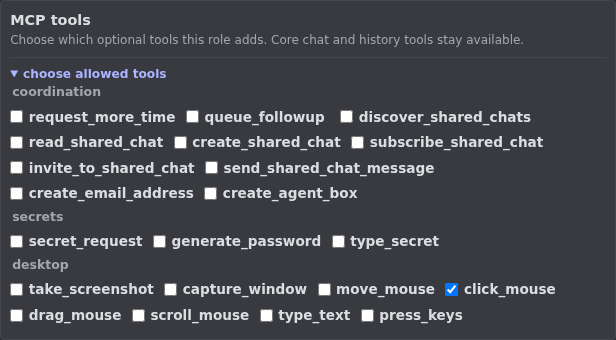
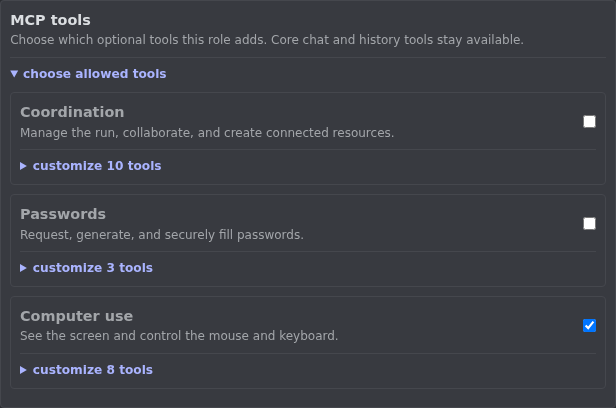
feat: add MCP tool category toggles

diff --git a/internal/controller/web/app.js b/internal/controller/web/app.js
@@ -221,15 +221,19 @@ function renderRoleMatrix(){const root=$('#role-matrix'),query=$('#role-box-sear
  const wrap=node('div');wrap.className='role-matrix-wrap';const table=node('table');table.className='role-matrix';const head=node('tr');const boxHead=node('th','Box');boxHead.className='sticky-box';head.append(boxHead);for(const role of agentRoles){const th=node('th'),edit=button(role.name,()=>openRoleEditor(role));edit.classList.add('role-heading');th.append(edit);head.append(th)}table.append(head);for(const box of boxes){const row=node('tr'),name=node('th',box.name);name.scope='row';name.className='sticky-box';row.append(name);for(const role of agentRoles){const cell=node('td');cell.append(roleCheckbox(box,role));row.append(cell)}table.append(row)}wrap.append(table);
  const mobile=node('div');mobile.className='role-mobile';const select=document.createElement('select');for(const box of boxes){const option=node('option',box.name);option.value=box.id;select.append(option)}const list=node('div');list.className='role-checklist';const draw=()=>{list.replaceChildren();const box=boxes.find(value=>value.id===select.value);if(!box)return;for(const role of agentRoles){const label=node('label'),input=roleCheckbox(box,role);label.append(input,document.createTextNode(role.name));list.append(label)}};select.addEventListener('change',draw);draw();mobile.append(select,list);root.append(wrap,mobile)}
 function renderRoles(roles,boxes,resetDraft=true){agentRoles=roles||[];roleBoxes=boxes||[];if(resetDraft||!roleAssignmentsDirty){roleAssignmentDraft=new Map(roleBoxes.map(box=>[box.id,(box.roles||[]).map(role=>role.id)]));setRoleAssignmentsDirty(false)}renderCreationRoles();renderRoleMatrix()}
-function openRoleEditor(role=null){const form=$('#role-editor-form'),cap=role?.capabilities||{};form.reset();form.elements.id.value=role?.id||'';form.elements.name.value=role?.name||'';form.elements.description.value=role?.description||'';form.elements.contactScope.value=role?.contactScope||'none';const set=(name,value)=>{if(value!==undefined&&value!==null)form.elements[name].value=String(value)},check=(name,value)=>form.elements[name].checked=!!value;check('requestMoreTimeEnabled',cap.requestMoreTime?.enabled);set('maxExtensionMinutes',cap.requestMoreTime?.maxExtensionMinutes);set('maxTotalMinutes',cap.requestMoreTime?.maxTotalMinutes);check('queueFollowupEnabled',cap.queueFollowup?.enabled);set('maxDelayMinutes',cap.queueFollowup?.maxDelayMinutes);set('maxPending',cap.queueFollowup?.maxPending);check('createAgentBoxEnabled',cap.createAgentBox?.enabled);set('maxBoxes',cap.createAgentBox?.maxBoxes);set('maxDiskGiB',cap.createAgentBox?.maxDiskGiB);const allowed=new Set(cap.createAgentBox?.allowedAgents||[]);form.querySelectorAll('input[name=allowedAgents]').forEach(input=>input.checked=allowed.has(input.value));check('createEmailAddressEnabled',cap.createEmailAddress?.enabled);set('maxAddresses',cap.createEmailAddress?.maxAddresses);set('emailDomains',(cap.createEmailAddress?.domains||[]).join(', '));set('emailAddressTypes',(cap.createEmailAddress?.addressTypes||[]).join(', '));check('sharedChatDiscover',cap.sharedChats?.discover);check('sharedChatRead',cap.sharedChats?.read);check('sharedChatSubscribe',cap.sharedChats?.subscribe);check('sharedChatCreate',cap.sharedChats?.create);check('sharedChatInvite',cap.sharedChats?.invite);check('sharedChatsEnabled',Object.values(cap.sharedChats||{}).some(Boolean));const mcpInputs=[...form.querySelectorAll('input[name=mcpTools]')],allowedMCP=new Set(cap.mcpTools?.enabled?(cap.mcpTools.allowedTools||[]):[]);mcpInputs.forEach(input=>input.checked=allowedMCP.has(input.value));$('#role-editor-title').textContent=role?'Edit role · '+role.name:'Create role';$('#delete-role').hidden=!role;$('#role-assigned-count').textContent=role?'Assigned to '+role.assignedBoxCount+' box'+(role.assignedBoxCount===1?'':'es')+'.':'Not assigned yet.';const selected=new Set(role?.contactBoxIds||[]),root=$('#role-contact-boxes');root.replaceChildren();for(const box of roleBoxes){const label=node('label'),input=document.createElement('input');input.type='checkbox';input.name='contactBoxIds';input.value=box.id;input.checked=selected.has(box.id);label.append(input,document.createTextNode(box.name));root.append(label)}root.hidden=form.elements.contactScope.value!=='selected';const assignable=new Set(cap.createAgentBox?.assignableRoleIds||[]),assignableRoot=$('#role-assignable-roles');assignableRoot.replaceChildren();for(const candidate of agentRoles){const label=node('label'),input=document.createElement('input');input.type='checkbox';input.name='assignableRoleIds';input.value=candidate.id;input.checked=assignable.has(candidate.id);label.append(input,document.createTextNode(candidate.name));assignableRoot.append(label)}form.querySelectorAll('.role-capability-options').forEach(details=>details.open=false);syncRoleCapabilities(form);$('#role-editor-status').textContent='';modalEl('role-editor-modal').hidden=false;form.elements.name.focus()}
+function openRoleEditor(role=null){const form=$('#role-editor-form'),cap=role?.capabilities||{};form.reset();form.elements.id.value=role?.id||'';form.elements.name.value=role?.name||'';form.elements.description.value=role?.description||'';form.elements.contactScope.value=role?.contactScope||'none';const set=(name,value)=>{if(value!==undefined&&value!==null)form.elements[name].value=String(value)},check=(name,value)=>form.elements[name].checked=!!value;check('requestMoreTimeEnabled',cap.requestMoreTime?.enabled);set('maxExtensionMinutes',cap.requestMoreTime?.maxExtensionMinutes);set('maxTotalMinutes',cap.requestMoreTime?.maxTotalMinutes);check('queueFollowupEnabled',cap.queueFollowup?.enabled);set('maxDelayMinutes',cap.queueFollowup?.maxDelayMinutes);set('maxPending',cap.queueFollowup?.maxPending);check('createAgentBoxEnabled',cap.createAgentBox?.enabled);set('maxBoxes',cap.createAgentBox?.maxBoxes);set('maxDiskGiB',cap.createAgentBox?.maxDiskGiB);const allowed=new Set(cap.createAgentBox?.allowedAgents||[]);form.querySelectorAll('input[name=allowedAgents]').forEach(input=>input.checked=allowed.has(input.value));check('createEmailAddressEnabled',cap.createEmailAddress?.enabled);set('maxAddresses',cap.createEmailAddress?.maxAddresses);set('emailDomains',(cap.createEmailAddress?.domains||[]).join(', '));set('emailAddressTypes',(cap.createEmailAddress?.addressTypes||[]).join(', '));check('sharedChatDiscover',cap.sharedChats?.discover);check('sharedChatRead',cap.sharedChats?.read);check('sharedChatSubscribe',cap.sharedChats?.subscribe);check('sharedChatCreate',cap.sharedChats?.create);check('sharedChatInvite',cap.sharedChats?.invite);check('sharedChatsEnabled',Object.values(cap.sharedChats||{}).some(Boolean));const mcpInputs=[...form.querySelectorAll('input[name=mcpTools]')],allowedMCP=new Set(cap.mcpTools?.enabled?(cap.mcpTools.allowedTools||[]):[]);mcpInputs.forEach(input=>input.checked=allowedMCP.has(input.value));$('#role-editor-title').textContent=role?'Edit role · '+role.name:'Create role';$('#delete-role').hidden=!role;$('#role-assigned-count').textContent=role?'Assigned to '+role.assignedBoxCount+' box'+(role.assignedBoxCount===1?'':'es')+'.':'Not assigned yet.';const selected=new Set(role?.contactBoxIds||[]),root=$('#role-contact-boxes');root.replaceChildren();for(const box of roleBoxes){const label=node('label'),input=document.createElement('input');input.type='checkbox';input.name='contactBoxIds';input.value=box.id;input.checked=selected.has(box.id);label.append(input,document.createTextNode(box.name));root.append(label)}root.hidden=form.elements.contactScope.value!=='selected';const assignable=new Set(cap.createAgentBox?.assignableRoleIds||[]),assignableRoot=$('#role-assignable-roles');assignableRoot.replaceChildren();for(const candidate of agentRoles){const label=node('label'),input=document.createElement('input');input.type='checkbox';input.name='assignableRoleIds';input.value=candidate.id;input.checked=assignable.has(candidate.id);label.append(input,document.createTextNode(candidate.name));assignableRoot.append(label)}form.querySelectorAll('.role-capability-options').forEach(details=>details.open=false);syncRoleCapabilities(form);syncMCPToolGroups(form);$('#role-editor-status').textContent='';modalEl('role-editor-modal').hidden=false;form.elements.name.focus()}
 function syncRoleCapabilities(form=$('#role-editor-form')){form.querySelectorAll('.role-capability-options[data-capability]').forEach(root=>root.hidden=!form.elements[root.dataset.capability].checked)}
 function changeRoleCapability(input){if(input.name==='sharedChatsEnabled'&&input.checked&&!['sharedChatDiscover','sharedChatRead','sharedChatSubscribe','sharedChatCreate','sharedChatInvite'].some(name=>input.form.elements[name].checked)){for(const name of ['sharedChatDiscover','sharedChatRead','sharedChatSubscribe','sharedChatCreate','sharedChatInvite'])input.form.elements[name].checked=true}syncRoleCapabilities(input.form)}
+function syncMCPToolGroups(form=$('#role-editor-form')){for(const group of form.querySelectorAll('.mcp-tool-group')){const tools=[...group.querySelectorAll('input[name=mcpTools]')],toggle=group.querySelector('.mcp-tool-group-toggle'),selected=tools.filter(input=>input.checked).length;toggle.checked=selected===tools.length;toggle.indeterminate=selected>0&&selected<tools.length}}
+function changeMCPToolGroup(toggle){for(const input of toggle.closest('.mcp-tool-group').querySelectorAll('input[name=mcpTools]'))input.checked=toggle.checked;syncMCPToolGroups(toggle.form)}
 $('#role-box-search').addEventListener('input',renderRoleMatrix);
 $('#create-role').addEventListener('click',()=>openRoleEditor());
 $('#discard-role-assignments').addEventListener('click',()=>renderRoles(agentRoles,roleBoxes,true));
 $('#save-role-assignments').addEventListener('click',action(async()=>{await api('/v1/agent-role-assignments','PUT',{assignments:roleBoxes.map(box=>({boxId:box.id,roleIds:roleAssignmentDraft.get(box.id)||[]}))});setRoleAssignmentsDirty(false);notice('Role assignments saved.');await refresh()}));
 document.querySelectorAll('#role-editor-form input[name=contactScope]').forEach(input=>input.addEventListener('change',()=>{$('#role-contact-boxes').hidden=input.form.elements.contactScope.value!=='selected'}));
 document.querySelectorAll('#role-editor-form .role-capability-toggle input[type=checkbox]').forEach(input=>input.addEventListener('change',()=>changeRoleCapability(input)));
+document.querySelectorAll('#role-editor-form .mcp-tool-group-toggle').forEach(input=>input.addEventListener('change',()=>changeMCPToolGroup(input)));
+document.querySelectorAll('#role-editor-form input[name=mcpTools]').forEach(input=>input.addEventListener('change',()=>syncMCPToolGroups(input.form)));
 $('#role-editor-form').addEventListener('submit',action(async e=>{const f=e.target.elements,id=f.id.value,csv=value=>value.split(',').map(item=>item.trim()).filter(Boolean),num=name=>Number.parseInt(f[name].value,10)||0,body={name:f.name.value.trim(),description:f.description.value.trim(),contactScope:f.contactScope.value,contactBoxIds:f.contactScope.value==='selected'?[...e.target.querySelectorAll('input[name=contactBoxIds]:checked')].map(input=>input.value):[],capabilities:{requestMoreTime:{enabled:f.requestMoreTimeEnabled.checked,maxExtensionMinutes:num('maxExtensionMinutes'),maxTotalMinutes:num('maxTotalMinutes')},queueFollowup:{enabled:f.queueFollowupEnabled.checked,maxDelayMinutes:num('maxDelayMinutes'),maxPending:num('maxPending')},createAgentBox:{enabled:f.createAgentBoxEnabled.checked,maxBoxes:num('maxBoxes'),maxDiskGiB:num('maxDiskGiB'),allowedAgents:[...e.target.querySelectorAll('input[name=allowedAgents]:checked')].map(input=>input.value),assignableRoleIds:[...e.target.querySelectorAll('input[name=assignableRoleIds]:checked')].map(input=>input.value)},createEmailAddress:{enabled:f.createEmailAddressEnabled.checked,maxAddresses:num('maxAddresses'),domains:csv(f.emailDomains.value),addressTypes:csv(f.emailAddressTypes.value)},sharedChats:{discover:f.sharedChatsEnabled.checked&&f.sharedChatDiscover.checked,read:f.sharedChatsEnabled.checked&&f.sharedChatRead.checked,subscribe:f.sharedChatsEnabled.checked&&f.sharedChatSubscribe.checked,create:f.sharedChatsEnabled.checked&&f.sharedChatCreate.checked,invite:f.sharedChatsEnabled.checked&&f.sharedChatInvite.checked},mcpTools:{enabled:true,allowedTools:[...e.target.querySelectorAll('input[name=mcpTools]:checked')].map(input=>input.value)}}};$('#role-editor-status').textContent='Saving…';await api('/v1/agent-roles'+(id?'/'+encodeURIComponent(id):''),id?'PUT':'POST',body);modalEl('role-editor-modal').hidden=true;notice(id?'Role updated.':'Role created.');await refresh()}));
 $('#delete-role').addEventListener('click',action(async()=>{const form=$('#role-editor-form'),id=form.elements.id.value,name=form.elements.name.value;if(!id||!confirm('Delete role "'+name+'"? Its assignments and grants will be removed. Other roles and manual contact allowances remain effective.'))return;await api('/v1/agent-roles/'+encodeURIComponent(id),'DELETE');modalEl('role-editor-modal').hidden=true;notice('Role deleted.');await refresh()}));
 function renderProfiles(identity,profiles){

diff --git a/internal/controller/web/index.html b/internal/controller/web/index.html
@@ -83,9 +83,9 @@
 <fieldset class="role-capability"><label class="role-capability-toggle"><span><strong>Email addresses</strong><small>Provision real addresses through the connected provider.</small></span><input type="checkbox" name="createEmailAddressEnabled" aria-label="Allow creating email addresses"></label><details class="role-capability-options" data-capability="createEmailAddressEnabled"><summary>advanced limits</summary><div class="role-capability-fields"><label>maximum addresses <input type="number" name="maxAddresses" min="1" max="100" value="3"></label><label>allowed domains <input name="emailDomains" placeholder="example.com"></label><label>allowed address types <input name="emailAddressTypes" value="alias" placeholder="alias, mailbox"></label></div></details></fieldset>
 <fieldset class="role-capability"><label class="role-capability-toggle"><span><strong>Shared chats</strong><small>Discover, read, follow, create, and invite.</small></span><input type="checkbox" name="sharedChatsEnabled" aria-label="Allow shared chats"></label><details class="role-capability-options" data-capability="sharedChatsEnabled"><summary>advanced permissions</summary><div class="role-shared"><label><input type="checkbox" name="sharedChatDiscover"> discover</label><label><input type="checkbox" name="sharedChatRead"> read</label><label><input type="checkbox" name="sharedChatSubscribe"> subscribe</label><label><input type="checkbox" name="sharedChatCreate"> create</label><label><input type="checkbox" name="sharedChatInvite"> invite</label></div></details></fieldset>
 <fieldset class="role-capability"><div class="role-capability-toggle"><span><strong>MCP tools</strong><small>Choose optional tools this role adds. Core chat and history tools stay available.</small></span></div><details class="role-capability-options mcp-tool-options"><summary>choose allowed tools</summary><div class="mcp-tool-groups">
-<fieldset class="role-inline"><legend>coordination</legend><label title="Extend this box's current run within its role limits."><input type="checkbox" name="mcpTools" value="request_more_time"> request_more_time</label><label title="Schedule a message for the current running task."><input type="checkbox" name="mcpTools" value="queue_followup"> queue_followup</label><label title="List shared chats this box is allowed to discover."><input type="checkbox" name="mcpTools" value="discover_shared_chats"> discover_shared_chats</label><label title="Read messages from a shared chat this box has joined."><input type="checkbox" name="mcpTools" value="read_shared_chat"> read_shared_chat</label><label title="Create and join a new shared chat."><input type="checkbox" name="mcpTools" value="create_shared_chat"> create_shared_chat</label><label title="Choose which shared-chat messages are delivered automatically."><input type="checkbox" name="mcpTools" value="subscribe_shared_chat"> subscribe_shared_chat</label><label title="Invite another permitted box to a shared chat."><input type="checkbox" name="mcpTools" value="invite_to_shared_chat"> invite_to_shared_chat</label><label title="Post a message or reply to a joined shared chat."><input type="checkbox" name="mcpTools" value="send_shared_chat_message"> send_shared_chat_message</label><label title="Provision an email address through the configured provider."><input type="checkbox" name="mcpTools" value="create_email_address"> create_email_address</label><label title="Create another agent box within this role's limits."><input type="checkbox" name="mcpTools" value="create_agent_box"> create_agent_box</label></fieldset>
-<fieldset class="role-inline"><legend>secrets</legend><label title="Ask you privately for an existing account password; the agent never sees it."><input type="checkbox" name="mcpTools" value="secret_request"> secret_request</label><label title="Generate and securely store a password for a new account."><input type="checkbox" name="mcpTools" value="generate_password"> generate_password</label><label title="Fill the focused HTTPS password field without revealing the password."><input type="checkbox" name="mcpTools" value="type_secret"> type_secret</label></fieldset>
-<fieldset class="role-inline"><legend>desktop</legend><label title="Capture the full desktop as an image."><input type="checkbox" name="mcpTools" value="take_screenshot"> take_screenshot</label><label title="Capture one visible window as an image."><input type="checkbox" name="mcpTools" value="capture_window"> capture_window</label><label title="Move the mouse pointer to screen coordinates."><input type="checkbox" name="mcpTools" value="move_mouse"> move_mouse</label><label title="Click or double-click at screen coordinates."><input type="checkbox" name="mcpTools" value="click_mouse"> click_mouse</label><label title="Drag the mouse between two screen coordinates."><input type="checkbox" name="mcpTools" value="drag_mouse"> drag_mouse</label><label title="Scroll vertically or horizontally at screen coordinates."><input type="checkbox" name="mcpTools" value="scroll_mouse"> scroll_mouse</label><label title="Type ordinary non-secret text into the focused application."><input type="checkbox" name="mcpTools" value="type_text"> type_text</label><label title="Press a key or keyboard shortcut in the focused application."><input type="checkbox" name="mcpTools" value="press_keys"> press_keys</label></fieldset>
+<fieldset class="role-capability mcp-tool-group"><label class="role-capability-toggle" title="Allow or deny every coordination tool in this group."><span><strong>Coordination</strong><small>Manage the run, collaborate, and create connected resources.</small></span><input type="checkbox" class="mcp-tool-group-toggle" value="coordination" aria-label="Allow all coordination tools"></label><details class="role-capability-options"><summary>customize 10 tools</summary><div class="role-inline"><label title="Extend this box's current run within its role limits."><input type="checkbox" name="mcpTools" value="request_more_time"> request_more_time</label><label title="Schedule a message for the current running task."><input type="checkbox" name="mcpTools" value="queue_followup"> queue_followup</label><label title="List shared chats this box is allowed to discover."><input type="checkbox" name="mcpTools" value="discover_shared_chats"> discover_shared_chats</label><label title="Read messages from a shared chat this box has joined."><input type="checkbox" name="mcpTools" value="read_shared_chat"> read_shared_chat</label><label title="Create and join a new shared chat."><input type="checkbox" name="mcpTools" value="create_shared_chat"> create_shared_chat</label><label title="Choose which shared-chat messages are delivered automatically."><input type="checkbox" name="mcpTools" value="subscribe_shared_chat"> subscribe_shared_chat</label><label title="Invite another permitted box to a shared chat."><input type="checkbox" name="mcpTools" value="invite_to_shared_chat"> invite_to_shared_chat</label><label title="Post a message or reply to a joined shared chat."><input type="checkbox" name="mcpTools" value="send_shared_chat_message"> send_shared_chat_message</label><label title="Provision an email address through the configured provider."><input type="checkbox" name="mcpTools" value="create_email_address"> create_email_address</label><label title="Create another agent box within this role's limits."><input type="checkbox" name="mcpTools" value="create_agent_box"> create_agent_box</label></div></details></fieldset>
+<fieldset class="role-capability mcp-tool-group"><label class="role-capability-toggle" title="Allow or deny every password tool in this group."><span><strong>Passwords</strong><small>Request, generate, and securely fill passwords.</small></span><input type="checkbox" class="mcp-tool-group-toggle" value="passwords" aria-label="Allow all password tools"></label><details class="role-capability-options"><summary>customize 3 tools</summary><div class="role-inline"><label title="Ask you privately for an existing account password; the agent never sees it."><input type="checkbox" name="mcpTools" value="secret_request"> secret_request</label><label title="Generate and securely store a password for a new account."><input type="checkbox" name="mcpTools" value="generate_password"> generate_password</label><label title="Fill the focused HTTPS password field without revealing the password."><input type="checkbox" name="mcpTools" value="type_secret"> type_secret</label></div></details></fieldset>
+<fieldset class="role-capability mcp-tool-group"><label class="role-capability-toggle" title="Allow or deny every tool that can inspect or control the box's computer."><span><strong>Computer use</strong><small>See the screen and control the mouse and keyboard.</small></span><input type="checkbox" class="mcp-tool-group-toggle" value="computer_use" aria-label="Allow all computer-use tools"></label><details class="role-capability-options"><summary>customize 8 tools</summary><div class="role-inline"><label title="Capture the full desktop as an image."><input type="checkbox" name="mcpTools" value="take_screenshot"> take_screenshot</label><label title="Capture one visible window as an image."><input type="checkbox" name="mcpTools" value="capture_window"> capture_window</label><label title="Move the mouse pointer to screen coordinates."><input type="checkbox" name="mcpTools" value="move_mouse"> move_mouse</label><label title="Click or double-click at screen coordinates."><input type="checkbox" name="mcpTools" value="click_mouse"> click_mouse</label><label title="Drag the mouse between two screen coordinates."><input type="checkbox" name="mcpTools" value="drag_mouse"> drag_mouse</label><label title="Scroll vertically or horizontally at screen coordinates."><input type="checkbox" name="mcpTools" value="scroll_mouse"> scroll_mouse</label><label title="Type ordinary non-secret text into the focused application."><input type="checkbox" name="mcpTools" value="type_text"> type_text</label><label title="Press a key or keyboard shortcut in the focused application."><input type="checkbox" name="mcpTools" value="press_keys"> press_keys</label></div></details></fieldset>
 </div></details></fieldset>
 </section>
 <div class="form-actions"><button class="primary">save role</button><button type="button" class="linkbtn danger" id="delete-role" hidden>delete role</button></div><p id="role-editor-status" role="status"></p></form>

diff --git a/internal/controller/web/chat.html b/internal/controller/web/chat.html
@@ -308,15 +308,13 @@
     <fieldset class="role-capability">
      <div class="role-capability-toggle"><span><strong>MCP tools</strong><small>Choose which optional tools this role adds. Core chat and history tools stay available.</small></span></div>
      <details class="role-capability-options mcp-tool-options"><summary>Choose allowed tools</summary><div class="mcp-tool-groups">
-      <fieldset class="role-inline-checks"><legend>Coordination</legend>
-       <label title="Extend this box's current run within its role limits."><input type="checkbox" name="mcpTools" value="request_more_time"> request_more_time</label><label title="Schedule a message for the current running task."><input type="checkbox" name="mcpTools" value="queue_followup"> queue_followup</label>
-       <label title="List shared chats this box is allowed to discover."><input type="checkbox" name="mcpTools" value="discover_shared_chats"> discover_shared_chats</label><label title="Read messages from a shared chat this box has joined."><input type="checkbox" name="mcpTools" value="read_shared_chat"> read_shared_chat</label><label title="Create and join a new shared chat."><input type="checkbox" name="mcpTools" value="create_shared_chat"> create_shared_chat</label><label title="Choose which shared-chat messages are delivered automatically."><input type="checkbox" name="mcpTools" value="subscribe_shared_chat"> subscribe_shared_chat</label><label title="Invite another permitted box to a shared chat."><input type="checkbox" name="mcpTools" value="invite_to_shared_chat"> invite_to_shared_chat</label><label title="Post a message or reply to a joined shared chat."><input type="checkbox" name="mcpTools" value="send_shared_chat_message"> send_shared_chat_message</label>
-       <label title="Provision an email address through the configured provider."><input type="checkbox" name="mcpTools" value="create_email_address"> create_email_address</label><label title="Create another agent box within this role's limits."><input type="checkbox" name="mcpTools" value="create_agent_box"> create_agent_box</label>
-      </fieldset><fieldset class="role-inline-checks"><legend>Secrets</legend>
+      <fieldset class="role-capability mcp-tool-group"><label class="role-capability-toggle" title="Allow or deny every coordination tool in this group."><span><strong>Coordination</strong><small>Manage the run, collaborate, and create connected resources.</small></span><input type="checkbox" class="mcp-tool-group-toggle" value="coordination" aria-label="Allow all coordination tools"></label><details class="role-capability-options"><summary>Customize 10 tools</summary><div class="role-inline-checks">
+       <label title="Extend this box's current run within its role limits."><input type="checkbox" name="mcpTools" value="request_more_time"> request_more_time</label><label title="Schedule a message for the current running task."><input type="checkbox" name="mcpTools" value="queue_followup"> queue_followup</label><label title="List shared chats this box is allowed to discover."><input type="checkbox" name="mcpTools" value="discover_shared_chats"> discover_shared_chats</label><label title="Read messages from a shared chat this box has joined."><input type="checkbox" name="mcpTools" value="read_shared_chat"> read_shared_chat</label><label title="Create and join a new shared chat."><input type="checkbox" name="mcpTools" value="create_shared_chat"> create_shared_chat</label><label title="Choose which shared-chat messages are delivered automatically."><input type="checkbox" name="mcpTools" value="subscribe_shared_chat"> subscribe_shared_chat</label><label title="Invite another permitted box to a shared chat."><input type="checkbox" name="mcpTools" value="invite_to_shared_chat"> invite_to_shared_chat</label><label title="Post a message or reply to a joined shared chat."><input type="checkbox" name="mcpTools" value="send_shared_chat_message"> send_shared_chat_message</label><label title="Provision an email address through the configured provider."><input type="checkbox" name="mcpTools" value="create_email_address"> create_email_address</label><label title="Create another agent box within this role's limits."><input type="checkbox" name="mcpTools" value="create_agent_box"> create_agent_box</label>
+      </div></details></fieldset><fieldset class="role-capability mcp-tool-group"><label class="role-capability-toggle" title="Allow or deny every password tool in this group."><span><strong>Passwords</strong><small>Request, generate, and securely fill passwords.</small></span><input type="checkbox" class="mcp-tool-group-toggle" value="passwords" aria-label="Allow all password tools"></label><details class="role-capability-options"><summary>Customize 3 tools</summary><div class="role-inline-checks">
        <label title="Ask you privately for an existing account password; the agent never sees it."><input type="checkbox" name="mcpTools" value="secret_request"> secret_request</label><label title="Generate and securely store a password for a new account."><input type="checkbox" name="mcpTools" value="generate_password"> generate_password</label><label title="Fill the focused HTTPS password field without revealing the password."><input type="checkbox" name="mcpTools" value="type_secret"> type_secret</label>
-      </fieldset><fieldset class="role-inline-checks"><legend>Desktop</legend>
+      </div></details></fieldset><fieldset class="role-capability mcp-tool-group"><label class="role-capability-toggle" title="Allow or deny every tool that can inspect or control the box's computer."><span><strong>Computer use</strong><small>See the screen and control the mouse and keyboard.</small></span><input type="checkbox" class="mcp-tool-group-toggle" value="computer_use" aria-label="Allow all computer-use tools"></label><details class="role-capability-options"><summary>Customize 8 tools</summary><div class="role-inline-checks">
        <label title="Capture the full desktop as an image."><input type="checkbox" name="mcpTools" value="take_screenshot"> take_screenshot</label><label title="Capture one visible window as an image."><input type="checkbox" name="mcpTools" value="capture_window"> capture_window</label><label title="Move the mouse pointer to screen coordinates."><input type="checkbox" name="mcpTools" value="move_mouse"> move_mouse</label><label title="Click or double-click at screen coordinates."><input type="checkbox" name="mcpTools" value="click_mouse"> click_mouse</label><label title="Drag the mouse between two screen coordinates."><input type="checkbox" name="mcpTools" value="drag_mouse"> drag_mouse</label><label title="Scroll vertically or horizontally at screen coordinates."><input type="checkbox" name="mcpTools" value="scroll_mouse"> scroll_mouse</label><label title="Type ordinary non-secret text into the focused application."><input type="checkbox" name="mcpTools" value="type_text"> type_text</label><label title="Press a key or keyboard shortcut in the focused application."><input type="checkbox" name="mcpTools" value="press_keys"> press_keys</label>
-      </fieldset>
+      </div></details></fieldset>
      </div></details>
     </fieldset>
    </section>

diff --git a/internal/controller/web/chat.js b/internal/controller/web/chat.js
@@ -1879,10 +1879,12 @@
   $('#role-editor-title').textContent=role?'Edit role · '+role.name:'Define role';$('#delete-role').hidden=!role;$('#role-assigned-count').textContent=role?'Assigned to '+role.assignedBoxCount+' box'+(role.assignedBoxCount===1?'':'es')+'.':'Not assigned yet.';
   const selectedContacts=new Set(role?.contactBoxIds||[]),root=$('#role-contact-boxes');root.replaceChildren();for(const box of roleBoxes()){const label=mk('label'),input=document.createElement('input');input.type='checkbox';input.name='contactBoxIds';input.value=box.id;input.checked=selectedContacts.has(box.id);label.append(input,document.createTextNode(box.name));root.append(label)}root.hidden=form.elements.contactScope.value!=='selected';$('#role-editor-status').textContent='';$('#role-editor-modal').hidden=false;form.elements.name.focus();
   const assignable=new Set(cap.createAgentBox?.assignableRoleIds||[]),assignableRoot=$('#role-assignable-roles');assignableRoot.replaceChildren();for(const candidate of agentRoles){const label=mk('label'),input=document.createElement('input');input.type='checkbox';input.name='assignableRoleIds';input.value=candidate.id;input.checked=assignable.has(candidate.id);label.append(input,document.createTextNode(candidate.name));assignableRoot.append(label)}
-  form.querySelectorAll('.role-capability-options').forEach(details=>details.open=false);syncRoleCapabilityOptions(form);
+  form.querySelectorAll('.role-capability-options').forEach(details=>details.open=false);syncRoleCapabilityOptions(form);syncMCPToolGroups(form);
  }
  function syncRoleCapabilityOptions(form=$('#role-editor-form')){form.querySelectorAll('.role-capability-options[data-capability]').forEach(root=>root.hidden=!form.elements[root.dataset.capability].checked)}
  function changeRoleCapability(input){if(input.name==='sharedChatsEnabled'&&input.checked&&!['sharedChatDiscover','sharedChatRead','sharedChatSubscribe','sharedChatCreate','sharedChatInvite'].some(name=>input.form.elements[name].checked)){for(const name of ['sharedChatDiscover','sharedChatRead','sharedChatSubscribe','sharedChatCreate','sharedChatInvite'])input.form.elements[name].checked=true}syncRoleCapabilityOptions(input.form)}
+ function syncMCPToolGroups(form=$('#role-editor-form')){for(const group of form.querySelectorAll('.mcp-tool-group')){const tools=[...group.querySelectorAll('input[name=mcpTools]')],toggle=group.querySelector('.mcp-tool-group-toggle'),selected=tools.filter(input=>input.checked).length;toggle.checked=selected===tools.length;toggle.indeterminate=selected>0&&selected<tools.length}}
+ function changeMCPToolGroup(toggle){for(const input of toggle.closest('.mcp-tool-group').querySelectorAll('input[name=mcpTools]'))input.checked=toggle.checked;syncMCPToolGroups(toggle.form)}
  $('#role-box-search').addEventListener('input',renderRoleMatrix);
  $('#roles-toggle').onclick=()=>void openRolesModal();
  $('#inspect-edit-roles').onclick=()=>void openRolesModal(selected);
@@ -1895,6 +1897,8 @@
  };
  document.querySelectorAll('#role-editor-form input[name=contactScope]').forEach(input=>input.addEventListener('change',()=>{$('#role-contact-boxes').hidden=input.form.elements.contactScope.value!=='selected'}));
  document.querySelectorAll('#role-editor-form .role-capability-toggle input').forEach(input=>input.addEventListener('change',()=>changeRoleCapability(input)));
+ document.querySelectorAll('#role-editor-form .mcp-tool-group-toggle').forEach(input=>input.addEventListener('change',()=>changeMCPToolGroup(input)));
+ document.querySelectorAll('#role-editor-form input[name=mcpTools]').forEach(input=>input.addEventListener('change',()=>syncMCPToolGroups(input.form)));
  $('#role-editor-form').onsubmit=async event=>{
   event.preventDefault();const form=event.currentTarget,f=form.elements,id=f.id.value,name=f.name.value.trim(),status=$('#role-editor-status');if(!name){status.textContent='Type the exact role name you want to define.';return}
   const csv=value=>value.split(',').map(item=>item.trim()).filter(Boolean),num=name=>Number.parseInt(f[name].value,10)||0;

diff --git a/docs/AGENT-ROLES-PHASE-2.md b/docs/AGENT-ROLES-PHASE-2.md
@@ -23,7 +23,10 @@ is rechecked by the controller at execution time.
   desktop tools. Core chat, contact, budget visibility, busy-state, and thread
   history tools remain available. The allow-list is an additional restriction:
   a selected tool still needs its typed capability grant and limits. Optional
-  tools default to denied when no assigned role explicitly grants them.
+  tools default to denied when no assigned role explicitly grants them. The UI
+  provides Coordination, Passwords, and Computer use group toggles while saving
+  the resulting exact per-tool list; individual tools remain independently
+  adjustable.
 
 Multiple assigned roles combine additively. Boolean grants are ORed, numeric
 limits use the largest explicit ceiling, and allow-lists are unioned.
